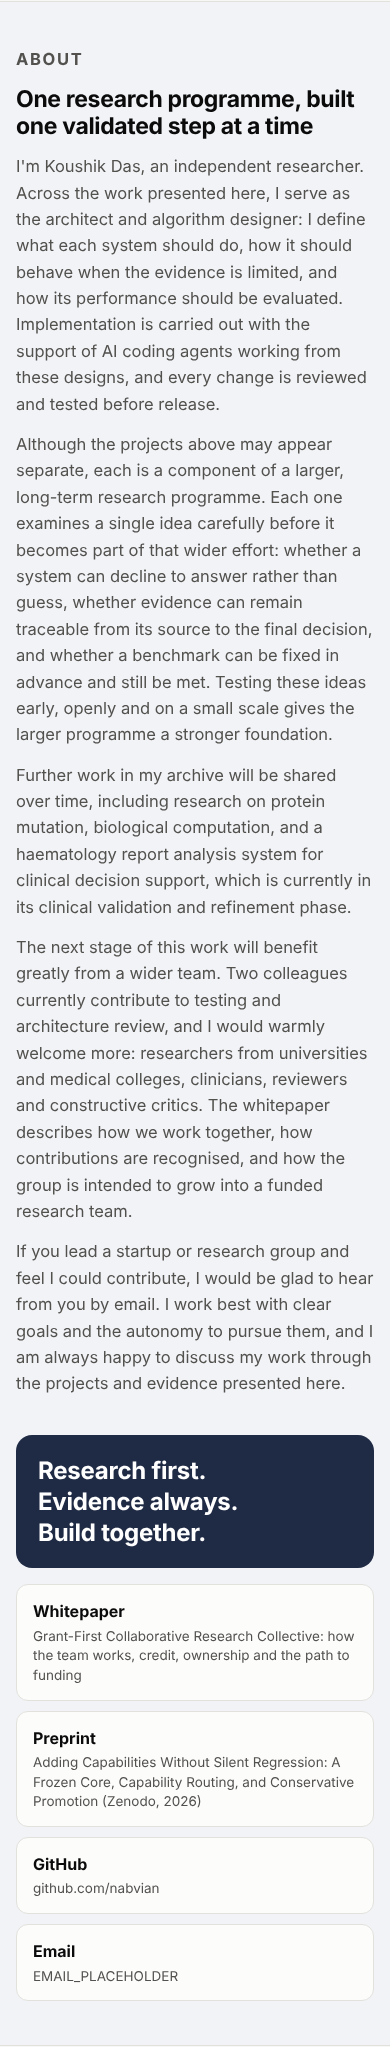
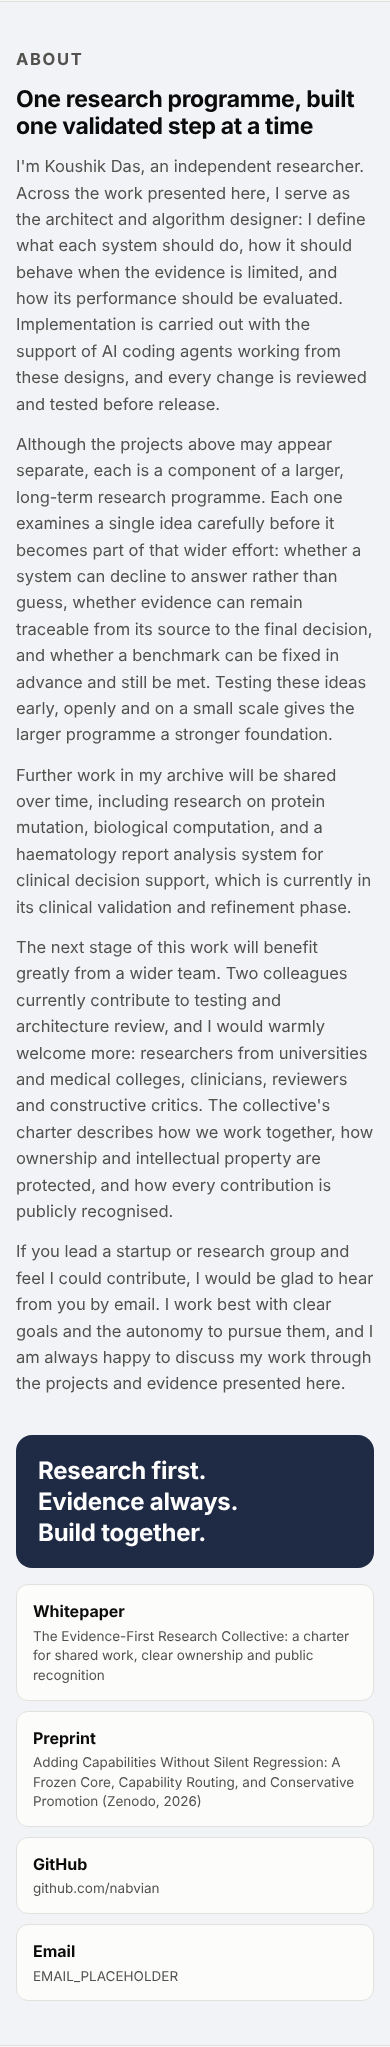
Draft 0.3: collective charter centred on work, ownership and recognition
Claude-Session: https://claude.ai/code/session_016qVKCg6jQ8hX6rV2dMeX21

Changed region(s): [[0.0615, 0.5232, 0.8615, 0.6155], [0.0923, 0.8002, 0.8308, 0.831], [0.8615, 0.8002, 0.8923, 0.831]]

diff --git a/index.html b/index.html
@@ -208,13 +208,13 @@
       <p>I'm Koushik Das, an independent researcher. Across the work presented here, I serve as the architect and algorithm designer: I define what each system should do, how it should behave when the evidence is limited, and how its performance should be evaluated. Implementation is carried out with the support of AI coding agents working from these designs, and every change is reviewed and tested before release.</p>
       <p>Although the projects above may appear separate, each is a component of a larger, long-term research programme. Each one examines a single idea carefully before it becomes part of that wider effort: whether a system can decline to answer rather than guess, whether evidence can remain traceable from its source to the final decision, and whether a benchmark can be fixed in advance and still be met. Testing these ideas early, openly and on a small scale gives the larger programme a stronger foundation.</p>
       <p>Further work in my archive will be shared over time, including research on protein mutation, biological computation, and a haematology report analysis system for clinical decision support, which is currently in its clinical validation and refinement phase.</p>
-      <p>The next stage of this work will benefit greatly from a wider team. Two colleagues currently contribute to testing and architecture review, and I would warmly welcome more: researchers from universities and medical colleges, clinicians, reviewers and constructive critics. The whitepaper describes how we work together, how contributions are recognised, and how the group is intended to grow into a funded research team.</p>
+      <p>The next stage of this work will benefit greatly from a wider team. Two colleagues currently contribute to testing and architecture review, and I would warmly welcome more: researchers from universities and medical colleges, clinicians, reviewers and constructive critics. The collective's charter describes how we work together, how ownership and intellectual property are protected, and how every contribution is publicly recognised.</p>
       <p>If you lead a startup or research group and feel I could contribute, I would be glad to hear from you by email. I work best with clear goals and the autonomy to pursue them, and I am always happy to discuss my work through the projects and evidence presented here.</p>
     </div>
     <div class="about-side">
       <blockquote class="motto">Research first.<br>Evidence always.<br>Build together.</blockquote>
       <div class="links">
-        <a class="link-card" href="whitepaper/"><b>Whitepaper</b><span>Grant-First Collaborative Research Collective: how the team works, credit, ownership and the path to funding</span></a>
+        <a class="link-card" href="whitepaper/"><b>Whitepaper</b><span>The Evidence-First Research Collective: a charter for shared work, clear ownership and public recognition</span></a>
         <a class="link-card" href="https://doi.org/10.5281/zenodo.23097652"><b>Preprint</b><span>Adding Capabilities Without Silent Regression: A Frozen Core, Capability Routing, and Conservative Promotion (Zenodo, 2026)</span></a>
         <a class="link-card" href="https://github.com/nabvian"><b>GitHub</b><span>github.com/nabvian</span></a>
         <a class="link-card" href="mailto:EMAIL_PLACEHOLDER"><b>Email</b><span>EMAIL_PLACEHOLDER</span></a>

diff --git a/drafts/research-collective.md b/drafts/research-collective.md
@@ -1,20 +1,24 @@
-# Grant-First Collaborative Research Collective
+# The Evidence-First Research Collective
 
-**Building a research team ahead of funding: principles, roles and pathway**
+**A charter for working together: shared work, clear ownership and public recognition**
 
-Koushik Das · Working paper, draft 0.2 · October 2026
+Koushik Das · Working paper, draft 0.3 · October 2026
 
 > Research first. Evidence always. Build together.
 
 ---
 
-## 1. Purpose of this paper
+## 1. Purpose of this charter
 
 Over the past year, I have been developing a series of research systems as an independent researcher: CARETRACE, ORPHARA, DMOS, RE-FORM X, LUMERA, Q-BenchMed, UMNA, Graphspace, and further work that is still in my archive. Although these may appear to be separate projects, each one is in fact a component of a larger, long-term research programme. Each has been designed to examine one specific idea carefully before it becomes part of that wider effort.
 
-The work has now reached a stage where its next steps would benefit greatly from a wider circle of expertise. Clinicians, laboratory scientists, statisticians, imaging specialists and engineers would each bring knowledge that can strengthen it considerably. Thoughtful reviewers and constructive critics are equally valuable, because careful questioning is what turns a promising idea into reliable evidence.
+The programme has now reached a stage where it would benefit greatly from a dedicated team. Clinicians, laboratory scientists, statisticians, imaging specialists and engineers would each bring knowledge that can strengthen the work considerably. Thoughtful reviewers and constructive critics are equally valuable, because careful questioning is what turns a promising idea into reliable evidence.
 
-This paper sets out how such a team can come together before formal funding is in place. It describes how contributions are recognised, how responsibility is shared, and how the group is intended to grow into a funded research team over time. It is written for anyone considering collaboration, and it also serves as a record of the commitments I intend to keep.
+This charter describes the kind of team I hope to build. It rests on three commitments to everyone who joins:
+
+1. **Meaningful work**: real research problems, real responsibility, and the autonomy to do the work well.
+2. **Clear ownership**: contributors know what they own, what they lead, and how their intellectual property is protected.
+3. **Public recognition**: every contribution is credited by name, and the people who do the work are the people the public sees.
 
 This is a living document. Suggestions and feedback are warmly welcomed, and it will be refined as the collective grows.
 
@@ -23,24 +27,20 @@ This is a living document. Suggestions and feedback are warmly welcomed, and it 
 - **Research lead.** I serve as the architect and algorithm designer for the programme. My role is to define what each system should do, how it should behave when evidence is limited, and how its performance should be evaluated. Implementation is carried out with the support of AI coding agents working from these designs, and every change is reviewed and tested before release.
 - **Team.** Two colleagues currently contribute to the work, supporting testing and architecture review.
 - **Body of work.** Six projects are available as live, in-browser demonstrations, three are presented as research showcases, and a preprint is available on Zenodo (doi:10.5281/zenodo.23097652). The archive further includes work on protein mutation, biological computation, and a haematology report analysis system for clinical decision support, which is currently in its clinical validation and refinement phase.
-- **Funding.** The programme is at a pre-funding stage. This paper outlines a considered path towards securing support.
 
-## 3. The model at a glance
+## 3. What the collective offers
 
-The approach is grant-first: **the team is formed and early evidence is gathered first, so that funding applications can be made by a group that has already worked together successfully.**
+### Meaningful work
 
-Research funders generally look for a well-defined question, a capable team and early evidence that the approach merits investment. A collaborative group can build all three together. When funding is secured, the people whose work made it possible are already part of the team, with their contributions recorded and recognised.
+Contributors work on open research questions with real consequences: how a clinical system should behave when evidence is missing, how imaging evidence can be made traceable, how a benchmark can be made honest. Each person takes responsibility for a defined part of the work, and is trusted to carry it through in their own way.
 
-The intended pathway has four stages:
+### Clear ownership and protected intellectual property
 
-| Stage | Description | How contributors take part |
-|---|---|---|
-| 0. Collaborative collective | A focused group building early evidence | Defined tasks, named credit, authorship opportunities |
-| 1. First grants | One or two funded studies | Funded roles offered first to established contributors |
-| 2. Funded research team | Sustained funding and an institutional home | Formal research or employment agreements |
-| 3. Potential venture | Considered where the evidence supports a product | Early contributors considered first for roles |
+Every contributor knows what they own and what they lead. Contributions are recorded as they happen, inventions are attributed at the time they are made, and the rights attached to each contribution are written down before work begins. Section 7 sets this out in detail.
 
-Each stage builds on the one before it. Every stage has value in its own right: a strong publication, a validated method or an open tool adopted by others are all meaningful outcomes.
+### Public recognition
+
+The people who do the work are the people who are seen. Contributors are named on project pages, in release notes, in publications and in presentations. Section 8 describes how recognition is given.
 
 ## 4. Roles and opportunities
 
@@ -49,6 +49,8 @@ Rather than looking for specific job titles, the collective welcomes people who 
 **Research lead and architect.** Defines research questions, designs the systems, maintains the coherence of the overall architecture, and takes responsibility for what the group communicates publicly. I currently hold this role.
 
 **Subsystem leads.** Take responsibility for a specific component, such as an extraction module, an evidence store, a benchmark framework or a reasoning engine. Section 6 describes this role in more detail.
+
+**Research question leads.** Take responsibility for a research question, from study design to write-up.
 
 **Developers.** Design, build, improve and test software. The use of AI-assisted development tools is welcome, provided the contributor understands and can explain the work they submit.
 
@@ -60,7 +62,7 @@ Rather than looking for specific job titles, the collective welcomes people who 
 
 **Data stewards.** Oversee data provenance, licensing and appropriate use, and help ensure that sensitive information is handled with care.
 
-**Writers and grant writers.** Help shape results into papers, reports and funding proposals.
+**Writers and communicators.** Help shape results into papers, reports, documentation and public material.
 
 ### Shared expectations
 
@@ -72,21 +74,19 @@ Across every role, the collective works by a few shared principles:
 - Handle data responsibly, and use real patient data only with the appropriate approvals.
 - Respect one another's time, expertise and contributions.
 
-## 5. Contributing at the pre-funding stage
-
-During the current stage, participation is voluntary and unpaid. The collective aims to make that time as rewarding as possible, through meaningful work, clear recognition and a fair path towards funded roles as support is secured.
+## 5. How we work together
 
 **A gentle start.** New contributors usually begin with a well-defined task that can be completed in days rather than months, such as a test suite, a methods review or a dataset licence check. This lets both sides see how the collaboration fits.
 
 **Flexible commitment.** There are no fixed hours. Each contributor indicates the time they can offer, and work is planned around it. If circumstances change, responsibilities can be handed over smoothly at any time.
 
-**Recognition that lasts.** Contributors may step back whenever they need to. The recognition for their work remains in place permanently (see section 7).
-
 **Trust and autonomy.** Those who lead a piece of work decide how best to carry it out. The emphasis is on outcomes and evidence, and contributors are trusted to manage their own time and approach.
+
+**Transparency about the current stage.** At present, participation is voluntary. The collective's focus is on producing work of lasting value, and contributors are kept fully informed as new opportunities arise.
 
 **Opportunities for students.** Students are very welcome. With their institution's agreement, this work may contribute to a project, thesis or portfolio, and support with any required documentation will gladly be provided.
 
-## 6. Ownership and responsibility
+## 6. Ownership of work
 
 Two complementary forms of ownership help each contributor take real responsibility for their work.
 
@@ -94,28 +94,38 @@ Two complementary forms of ownership help each contributor take real responsibil
 
 A subsystem lead is responsible for a specific component. Within that component, the lead:
 
-- guides its design and implementation, in line with the shared architecture and the principles in this paper;
+- guides its design and implementation, in line with the shared architecture and the principles in this charter;
 - reviews proposed changes and helps protect its stability and quality;
 - maintains its documentation, tests and record of known limitations;
 - is credited as its named lead in project records, release notes and publications.
 
-Leadership may be shared or transferred. When responsibility changes hands, both contributors and the relevant dates are recorded.
+Leadership may be shared or transferred. When responsibility changes hands, both contributors and the relevant dates are recorded, and earlier leads keep their credit permanently.
 
 ### Research question leadership
 
 Some contributors may prefer to lead a research question rather than a component, for example: "Do evidence-guided signals identify errors that confidence scores alone may miss?" The question lead designs the study, sets the success criteria before analysis begins, and leads the write-up. Where the work leads to a publication, the question lead would normally be well placed for first authorship.
 
-## 7. Recognition and credit
+## 7. Intellectual property
 
-Clear and fair recognition is essential to any research collaboration, so these principles are agreed at the outset.
+Clear intellectual property arrangements protect everyone: the contributor, the collective and the work itself. The principles below guide every contribution. Formal terms are put in writing, with appropriate legal advice, before they are relied upon.
 
-### Named technical credit
+- **Pre-existing work.** Systems, designs and knowledge developed before the collective was formed remain my pre-existing intellectual property. The same applies to every contributor: anything you bring with you remains yours. Pre-existing work is listed openly at the start of a collaboration, so that there is no uncertainty later.
+- **Contributions to open-source projects.** These are licensed under the relevant project licence. Contributors retain their copyright, and the licence defines the rights shared with others.
+- **Contributions to non-public projects.** Before work begins, contributors sign a short contributor agreement. It sets out the rights granted to the project, the rights the contributor keeps, and how the contribution will be attributed.
+- **Inventions and new ideas.** When a contribution leads to something with patent or commercial potential, the people involved are recorded at the time, together with dates and supporting evidence. Inventors are named as inventors, and joint work is recognised as joint work.
+- **Attribution that travels with the work.** Wherever a contribution is reused, extended or built upon, its original contributors remain credited.
+- **Data rights.** Data remains the property of the organisation or person who provided it, under the terms they set.
+- **Future value.** Should the work create commercial value in the future, through licensing, partnerships or a venture, the contribution records kept throughout will form the foundation for recognising contributors fairly, with independent legal advice available to everyone involved.
+
+## 8. Public recognition
+
+### Named credit
 
 Every contributor is acknowledged by name:
 
 - in the project's contributors record, together with their role;
 - in the release notes for the work they contributed;
-- on the project page, for substantial contributions.
+- on the project page and the collective's public site, for substantial contributions, with a short profile if the contributor wishes.
 
 Every contribution is valued, and even a single improvement is recorded.
 
@@ -129,40 +139,27 @@ Authorship reflects each person's actual contribution to the work.
 - Valued contributions that fall outside the authorship criteria are recognised by name and role in the acknowledgements.
 - Authorship is based entirely on contribution, so that recognition is both fair and complete.
 
-### References and recommendations
-
-Contributors who would like a reference or recommendation can expect one that is specific and well-founded. Each letter is based on the work itself, including code, reviews, tests and reports, which gives it credibility with universities, employers and funders.
-
-## 8. Publications and conferences
+### Publications and presentations
 
 - **Early dissemination.** Work is shared as preprints (on Zenodo, arXiv, medRxiv or bioRxiv, as appropriate), so that it is public, citable and clearly dated.
 - **Complete reporting.** Results that do not support a hypothesis are reported alongside those that do. This openness is already part of the existing benchmark record.
-- **Presenting the work.** Presentations are normally given by the question lead or principal contributor, and opportunities are rotated so that team members can gain experience.
-- **Conference support.** Conference participation is planned where costs can be supported by grants, travel awards or the presenter's institution, so that representing the group does not become a personal expense.
-- **Clinical review.** Any work with implications for patient care is reviewed by a clinical adviser before submission, and its scope and limitations are stated clearly.
+- **Presenting the work.** Presentations, talks and demonstrations are normally given by the question lead or principal contributor, and opportunities are rotated so that team members gain visibility and experience.
+- **Clinical review.** Any work with implications for patient care is reviewed by a clinical adviser before it is shared, and its scope and limitations are stated clearly.
+
+### References and recommendations
+
+Contributors who would like a reference or recommendation can expect one that is specific and well-founded. Each letter is based on the work itself, including code, reviews, tests and reports, which gives it credibility with universities, employers and collaborators.
 
 ## 9. Open-source approach
 
-The collective is committed to openness wherever it is responsible to do so.
+The collective is committed to openness wherever it is responsible to do so, because open work is also visible work.
 
 - **Open contributions.** Engines, tools, benchmark frameworks and results are shared under recognised licences (AGPL-3.0, Apache-2.0 or CC BY 4.0, depending on the project). Contributions to open projects are made under the project's licence.
 - **Staged release of clinical knowledge.** Clinical knowledge bases and models are released once they have completed validation, so that they are used with confidence and in the right context. This is the stated plan for ORPHARA, among others.
 - **Contribution sign-off.** Contributors confirm their right to submit their work through the Developer Certificate of Origin, a simple sign-off on each commit.
 - **Respect for third-party work.** The licences of all tools, models and datasets used are respected, and their sources are acknowledged clearly.
 
-## 10. Grant-first team formation
-
-This section outlines how the collective prepares to become the team named on a funding application.
-
-1. **A well-defined question.** A single question, appropriately scoped for one grant and supported by early evidence.
-2. **A strong evidence package.** Working software, pre-registered results (including inconclusive ones), a clear statement of limitations, and the contribution records described in section 7.
-3. **An institutional partner.** Many funders require grants to be held by a university, hospital or registered organisation. Collaborators from universities and medical colleges are therefore central to this stage, as co-investigators or as the host institution.
-4. **An accurate team description.** Applications name the contributors who carried out the work, in the roles they played.
-5. **People at the centre of the budget.** When funding is awarded, the first priority is to support the contributors who made the application possible, in roles that reflect their contribution.
-
-Funding applications are prepared collaboratively, and everyone named on an application reviews it before submission.
-
-## 11. Governance and decision-making
+## 10. Governance and decision-making
 
 Governance is designed to be light, transparent and fair.
 
@@ -173,41 +170,34 @@ Governance is designed to be light, transparent and fair.
 - **Constructive discussion.** Differences of opinion are a healthy part of research. Discussions focus on the evidence, and where a question remains open, a well-designed experiment is often the best way forward.
 - **Code of conduct.** All contributors follow a written code of conduct that ensures a respectful, inclusive and professional environment.
 
-## 12. Intellectual property and ownership
+## 11. How the collective grows
 
-This section sets out guiding principles. Formal terms will be established in writing, with appropriate legal advice, before any funding agreement or company formation.
+The collective is built around the work first. As the work matures, it is expected to open new possibilities, and each step builds on the recognition and ownership already in place.
 
-- **Pre-existing work.** Systems, designs and knowledge developed before the collective was formed remain my pre-existing intellectual property. These are listed openly to ensure clarity for everyone involved.
-- **Open-source contributions.** Contributions to open-source projects are licensed under the relevant project licence. Contributors retain their copyright, and the licence defines the rights shared with others.
-- **Contributions to non-public projects.** For projects that are not yet public, contributors sign a short contributor agreement before beginning. It sets out the rights granted to the project and confirms the contributor's recognition.
-- **New inventions and ideas.** Where a contribution leads to something with patent or commercial potential, the people involved are recorded at the time, together with dates and supporting evidence. Joint work is recognised as joint work.
-- **Data rights.** Data remains the property of the organisation or person who provided it, under the terms they set.
-- **Future arrangements.** Compensation, equity and any other future arrangements will be agreed formally when the time comes. The contribution records kept throughout the work will form the foundation for those discussions.
+| Stage | Description | What it means for contributors |
+|---|---|---|
+| 1. Collective | A focused team producing evidence and open work | Ownership, named credit, authorship |
+| 2. Partnerships | Collaboration with universities, medical colleges, hospitals and industry | Wider visibility, institutional affiliations, access to data and expertise |
+| 3. Supported research | Support through research funding, institutional programmes or industry collaboration, where it suits the work | Formal roles, offered first to established contributors |
+| 4. Potential venture | Considered where validated work would be best served by a company | Early contributors considered first, guided by contribution records |
 
-## 13. Pathway: from collective to funded team and beyond
+Each stage is an outcome in its own right. A strong publication, a validated method, an open tool adopted by others, or a lasting partnership are all meaningful achievements for the team.
 
-Each transition has a clear milestone, so that every contributor can see how the group intends to grow.
+When external support or partnership is pursued, the people who carried out the work are named in the roles they played, and everyone named reviews the proposal before it is submitted. Many funders and partners work through a host institution, which is one more reason university and medical college collaborators are so valuable to the collective.
 
-**Stage 0 to stage 1: the first grant is awarded.** Funded roles are offered first to the contributors whose work the grant builds on, as shown by the contribution records.
-
-**Stage 1 to stage 2: sustained funding and an institutional home.** Formal research or employment agreements take the place of voluntary arrangements, and the governance principles in section 11 carry forward into those agreements.
-
-**Stage 2 to stage 3: a potential venture.** Where a method has been externally validated and a company would be the most effective way to bring it into use, the formation of a venture may be considered. In that case, early contributors will be considered first for roles, and their recorded contributions will inform any discussion of ownership, with independent legal advice available to everyone involved.
-
-Whichever direction the evidence leads, a strong, well-functioning research team is a valuable and lasting outcome.
-
-## 14. Our commitments
+## 12. Our commitments
 
 Contributors can rely on the collective to:
 
-- be transparent about funding, roles and opportunities at every stage;
+- offer meaningful work with real responsibility and autonomy;
+- record ownership clearly, and protect each contributor's intellectual property;
+- recognise every contribution publicly, fully and fairly;
+- be transparent about the current stage, roles and opportunities;
 - represent research findings accurately, and present prototypes as research work until validation is complete;
-- recognise every contribution fully and fairly;
 - report all results, including those that challenge a hypothesis;
-- respect contributors' autonomy and time;
 - treat patient data with the highest standards of care and approval.
 
-## 15. Getting involved
+## 13. Getting involved
 
 If you are interested in contributing, you are warmly invited to get in touch. It would help to include:
 
@@ -224,4 +214,4 @@ University research groups, medical colleges, independent reviewers and critics 
 
 *Research first. Evidence always. Build together.*
 
-*This working paper will be updated as the collective develops. A version history is maintained alongside the document.*
+*This charter will be updated as the collective develops. A version history is maintained alongside the document.*
